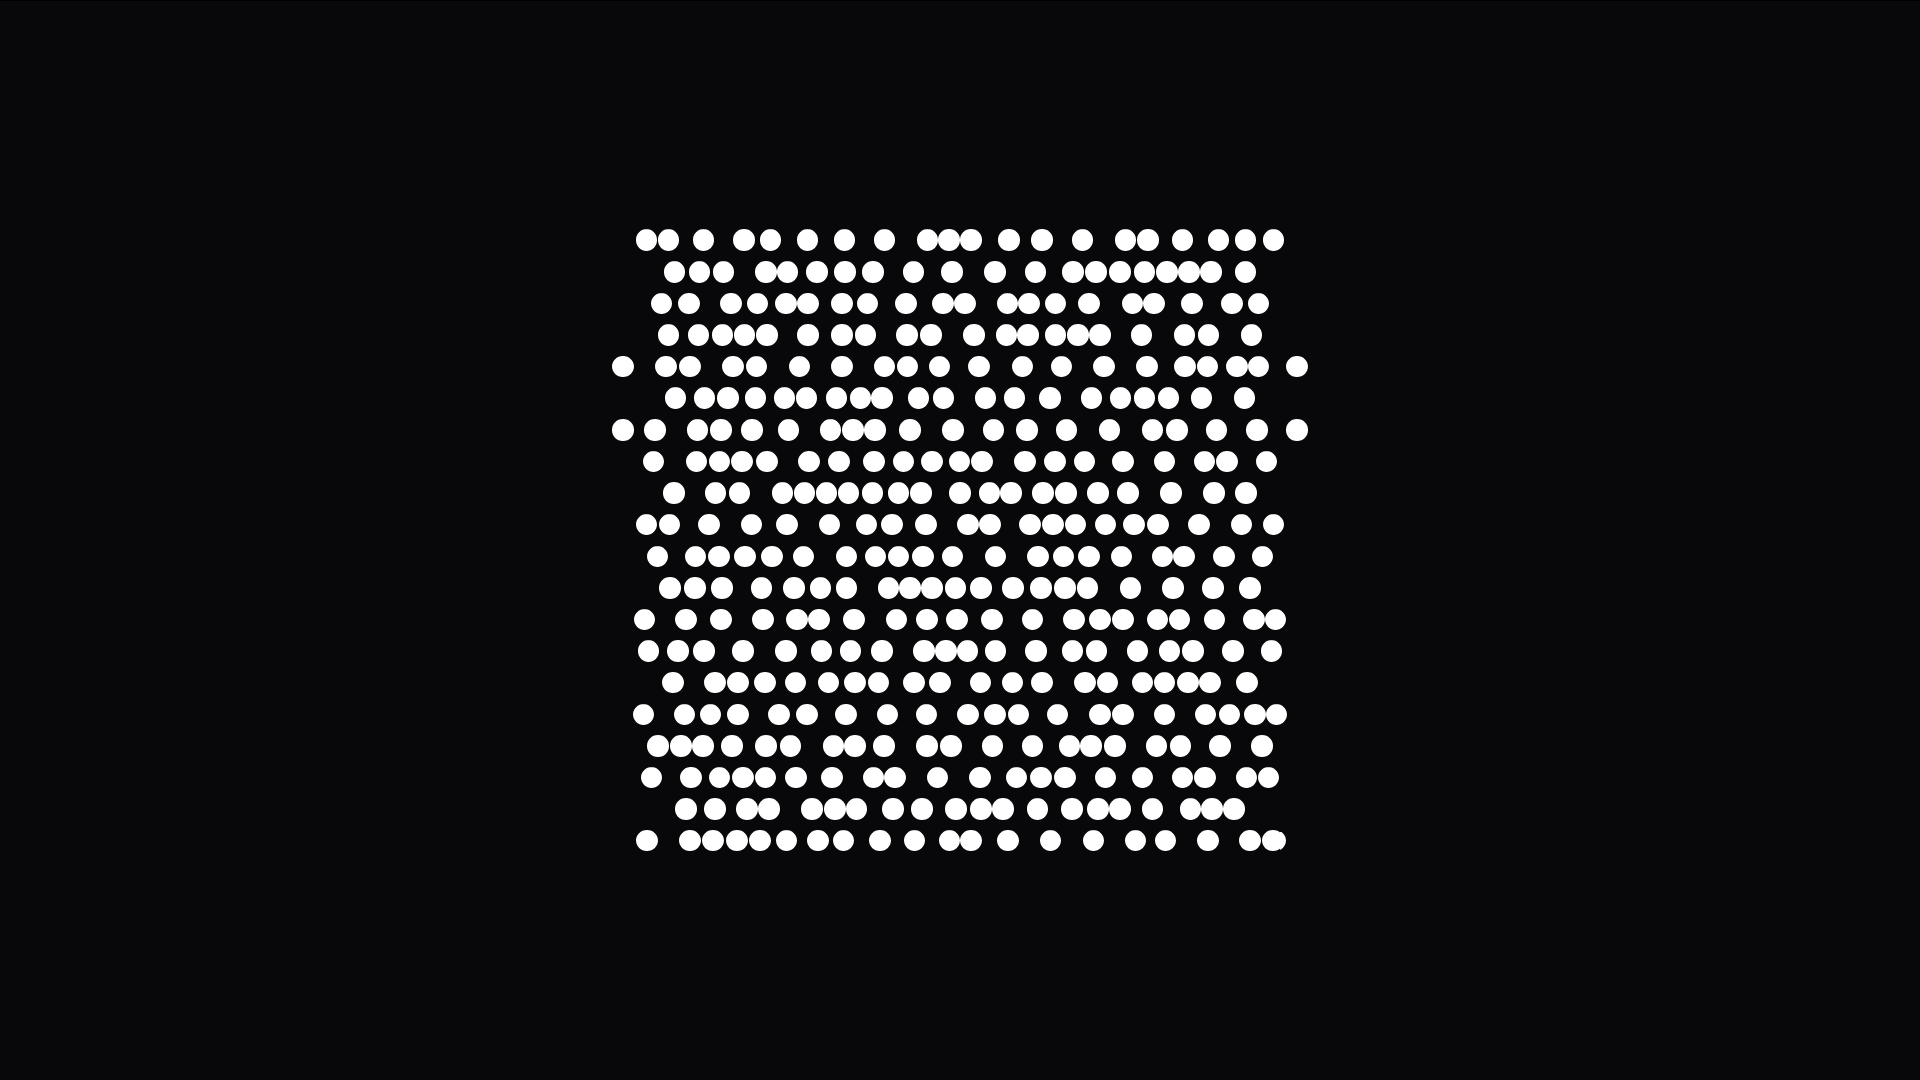
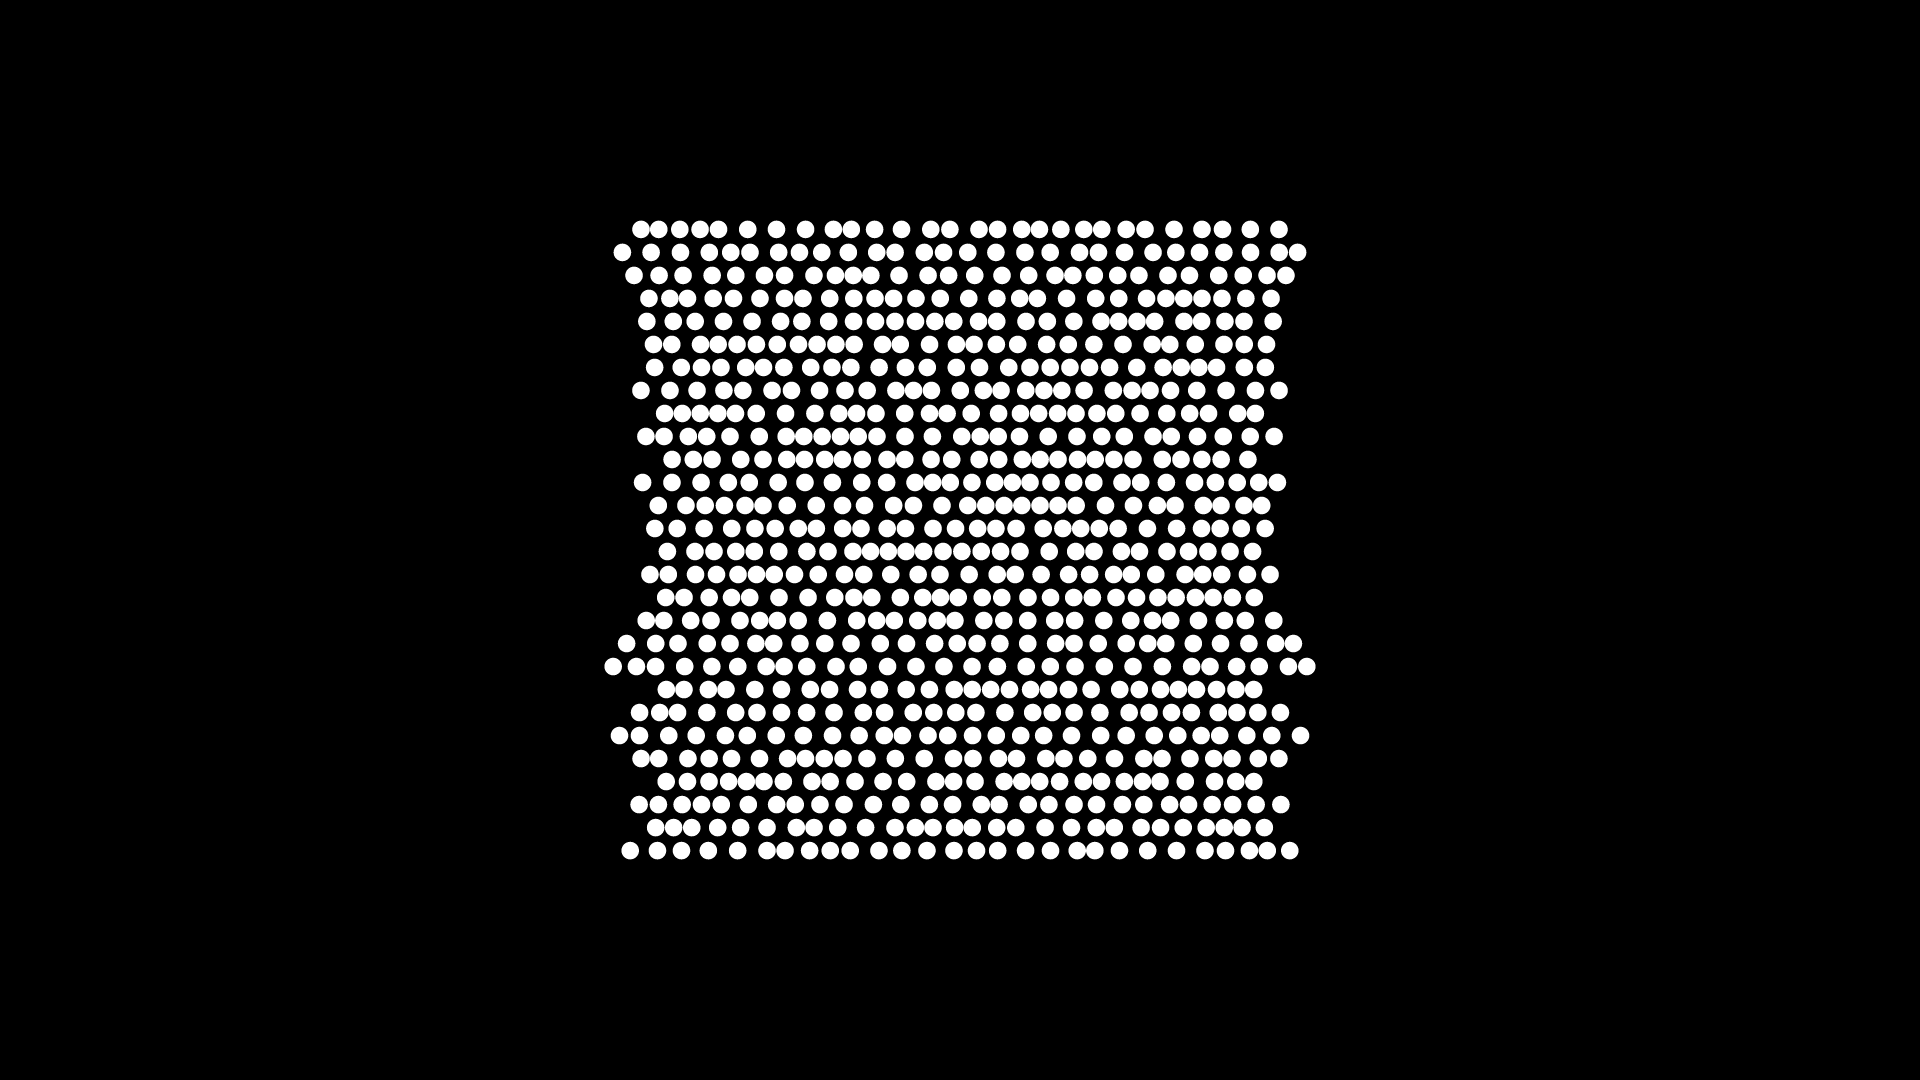
Rewrote offset using svg so it's less jittery

Changed region(s): [[0.3125, 0.1833, 0.6875, 0.7944]]

diff --git a/projects/offset/sketch.js b/projects/offset/sketch.js
@@ -1,54 +1,47 @@
-const w = 20;
-const h = 20;
-
-const container = document.createElement('div');
-container.id = 'container';
-document.body.append(container);
-
-let dots = new Array(w);
-let speeds = [];
-let voff = 0;
-
-for (let i = 0; i < h; i++) {
-  dots[i] = new Array(w);
-
-  let row = document.createElement('div');
-
-  row.classList.add('row');
-  container.append(row);
-
-  for (let j = 0; j < w; j++) {
-    let dot = document.createElement('div');
-    dot.classList.add('dot');
-    row.append(dot);
-    dots[i][j] = dot;
-
-    speeds[i * w + j] = (Math.random() + 1) / 2;
-  }
-}
-
-function draw(start = true) {
-  let milli = Date.now();
-  let offsum = 0;
-
-  for (let i = 0; i < h; i++) {
-    for (let j = 1; j < w; j++) {
-      let offset = Math.sin(milli * speeds[i * w + j] * 0.003) + 1;
-      offsum += offset;
-      dots[i][j].style.marginLeft = offset + 'vmin';
+import { resize, circle } from './svg.js';
+const len = 28;
+const area = len * len;
+const maxWidth = 300 / 4;
+const offsetRatio = 2 / 3;
+const radius = maxWidth / 2 / (len + offsetRatio * len - offsetRatio);
+document.getElementById("css").sheet?.insertRule(`circle { r: ${radius}% }`);
+const circles = new Array();
+const speeds = new Array();
+for (let y = 0; y < len; y++) {
+    for (let x = 0; x < len - 1; x++) {
+        circles.push(circle());
+        speeds.push(Math.random() + 1);
     }
-  }
-
-  let off = offsum/w/w;
-  voff = start ? off : lerp(voff, off, 0.1);
-  document.querySelectorAll('.row + .row')
-    .forEach(row => row.style.marginTop = voff + 'vmin');
-
-  requestAnimationFrame(()=>draw(false));
+    circles.push(circle());
 }
-
-draw();
-
-function lerp(a, b, c) {
-  return a + (b-a) * c;
+function draw(t) {
+    t /= 1000;
+    resize();
+    let vertOffset = 0;
+    for (let y = 0; y < len; y++) {
+        let offsets = new Array();
+        let width = 2 * radius * (len - 1);
+        for (let x = 0; x < len - 1; x++) {
+            const offset = (0.5 - 0.5 * Math.cos(t * speeds[(len - 1) * y + x])) * radius * 2 * offsetRatio;
+            width += offset;
+            offsets.push(offset);
+            vertOffset += offset;
+        }
+        let offset = 50 - width / 2;
+        for (let x = 0; x < len; x++) {
+            circles[y * len + x].setAttribute("cx", `${offset}%`);
+            offset += radius * 2 + offsets[x];
+        }
+    }
+    vertOffset /= area;
+    const height = (2 * radius + vertOffset) * (len - 1);
+    let offset = 50 - height / 2;
+    for (let y = 0; y < len; y++) {
+        const cy = offset + (2 * radius + vertOffset) * y;
+        for (let x = 0; x < len; x++) {
+            circles[y * len + x].setAttribute("cy", `${cy}%`);
+        }
+    }
+    requestAnimationFrame(draw);
 }
+draw(0);

diff --git a/projects/offset/sketch.ts b/projects/offset/sketch.ts
@@ -1,0 +1,60 @@
+import {resize, circle} from './svg.js';
+
+const len = 28; // Amount of circles per side of square
+const area = len * len; // Total amount of circles
+
+const maxWidth = 300 / 4;
+const offsetRatio = 2 / 3;
+const radius = maxWidth / 2 / (len + offsetRatio * len - offsetRatio);
+(document.getElementById("css") as HTMLStyleElement).sheet?.insertRule(`circle { r: ${radius}% }`);
+
+const circles = new Array<SVGElement>();
+const speeds = new Array<number>();
+for (let y = 0; y < len; y++) {
+  for (let x = 0; x < len - 1; x++) {
+    circles.push(circle());
+    speeds.push(Math.random() + 1);
+  }
+
+  circles.push(circle());
+}
+
+function draw(t: number) {
+  t /= 1000;
+
+  resize();
+
+  let vertOffset = 0;
+
+  for (let y = 0; y < len; y++) {
+    let offsets = new Array<number>();
+    let width = 2 * radius * (len - 1);
+
+    for (let x = 0; x < len - 1; x++) {
+      const offset = (0.5 - 0.5 * Math.cos(t * speeds[(len - 1) * y + x])) * radius * 2 * offsetRatio;
+      width += offset;
+      offsets.push(offset);
+      vertOffset += offset;
+    }
+
+    let offset = 50 - width / 2;
+    for (let x = 0; x < len; x++) {
+      circles[y * len + x].setAttribute("cx", `${offset}%`);
+      offset += radius * 2 + offsets[x];
+    }
+  }
+
+  vertOffset /= area;
+  const height = (2 * radius + vertOffset) * (len - 1);
+  let offset = 50 - height / 2;
+  for (let y = 0; y < len; y++) {
+    const cy = offset + (2 * radius + vertOffset) * y;
+    for (let x = 0; x < len; x++) {
+      circles[y * len + x].setAttribute("cy", `${cy}%`);
+    }
+  }
+
+  requestAnimationFrame(draw);
+}
+
+draw(0);

diff --git a/projects/offset/style.css b/projects/offset/style.css
@@ -1,38 +1,20 @@
 html {
-  height: 100%;
-  overflow: hidden;
-  background-color: #08080a;
-  text-align: center;
+    overflow: hidden;
+    cursor: none;
+    background-color: #000;
 }
 
 body {
-  height: 100%;
-  margin: 0;
-  display: flex;
-  justify-content: center;
-  align-items: center;
+    margin: 0;
 }
 
-#container {
-  cursor: none;
+svg {
+    position: fixed;
+    top: 50%;
+    left: 50%;
+    transform: translate(-50%, -50%);
 }
 
-.row {
-  margin: 0;
-  padding: 0;
-  height: 2vmin;
-  width: auto;
-  white-space: nowrap;
-}
-
-.row + .row {
-  margin-top: 0vmin;
-}
-
-.dot {
-  display: inline-block;
-  width:  2vmin;
-  height: 2vmin;
-  border-radius: 100%;
-  background-color: #fff;
+circle {
+    fill: #fff;
 }

diff --git a/projects/offset/svg.js b/projects/offset/svg.js
@@ -1,0 +1,13 @@
+const svg = document.querySelector("svg");
+export const circle = () => svg.appendChild(document.createElementNS("http://www.w3.org/2000/svg", "circle"));
+let needsResize = true;
+window.addEventListener("resize", () => { needsResize = true; });
+window.addEventListener("load", () => { needsResize = true; });
+export function resize() {
+    if (needsResize) {
+        const min = `${Math.min(window.innerWidth, window.innerHeight)}`;
+        svg.setAttribute("width", min);
+        svg.setAttribute("height", min);
+        needsResize = false;
+    }
+}

diff --git a/projects/offset/svg.ts b/projects/offset/svg.ts
@@ -1,0 +1,18 @@
+const svg = document.querySelector("svg")!;
+
+export const circle = () => svg.appendChild(document.createElementNS("http://www.w3.org/2000/svg", "circle"));
+
+let needsResize = true;
+
+window.addEventListener("resize", () => {needsResize = true;});
+window.addEventListener("load", () => {needsResize = true;});
+
+export function resize() {
+  if (needsResize) {
+    const min = `${Math.min(window.innerWidth, window.innerHeight)}`;
+    svg.setAttribute("width", min);
+    svg.setAttribute("height", min);
+
+    needsResize = false;
+  }
+}

diff --git a/projects/offset/index.html b/projects/offset/index.html
@@ -1,12 +1,11 @@
 <!DOCTYPE html>
 <html>
-  <head>
-    <meta charset='utf-8'>
-    <title>Offset</title>
-    <link rel='stylesheet' type='text/css' href='style.css'>
-  </head>
-
-  <body>
-    <script src='sketch.js'></script>
-  </body>
+    <head>
+        <link id="css" rel="stylesheet" type="text/css" href="style.css">
+        <title>Offset</title>
+    </head>
+    <body>
+        <svg></svg>
+        <script type="module" src="sketch.js"></script>
+    </body>
 </html>
